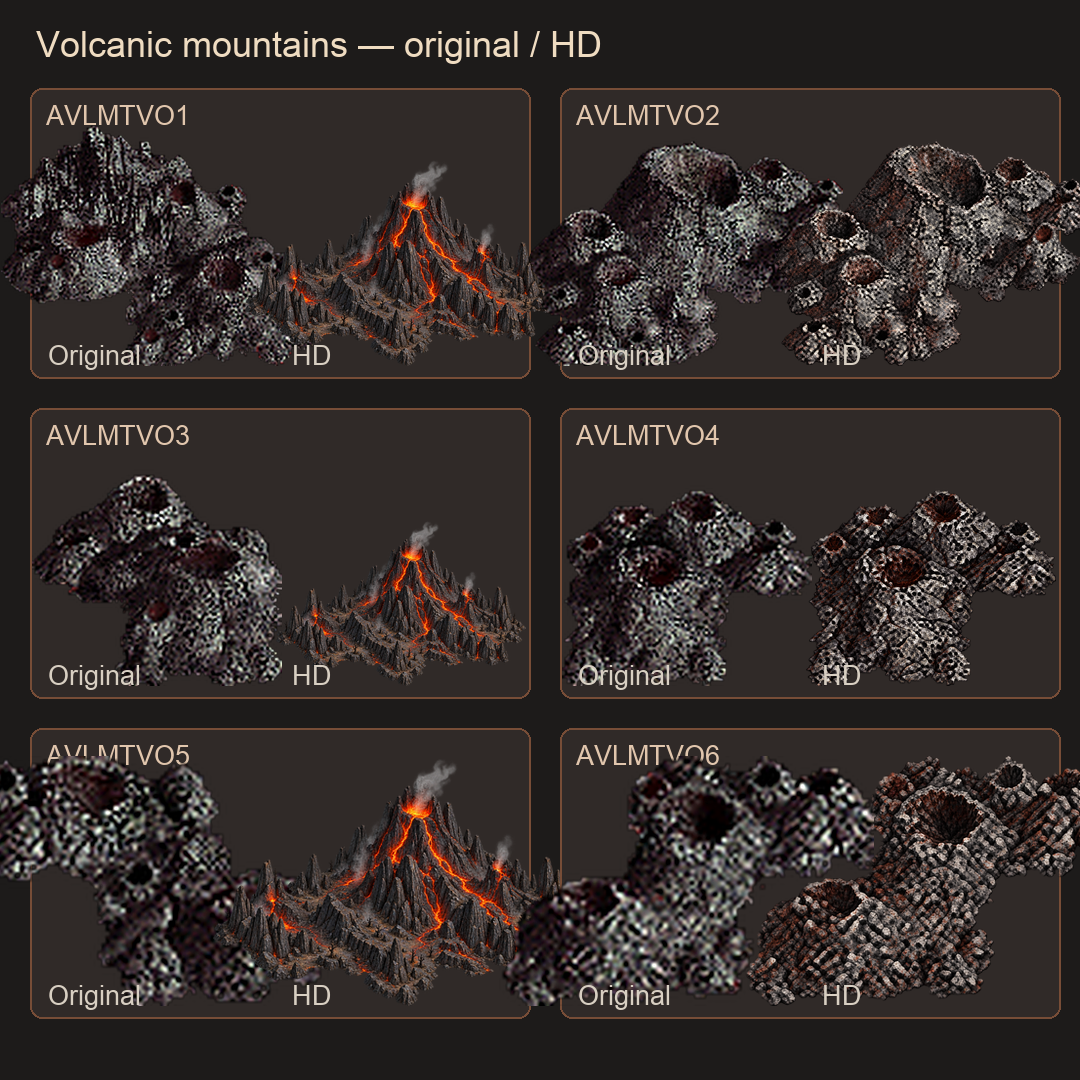
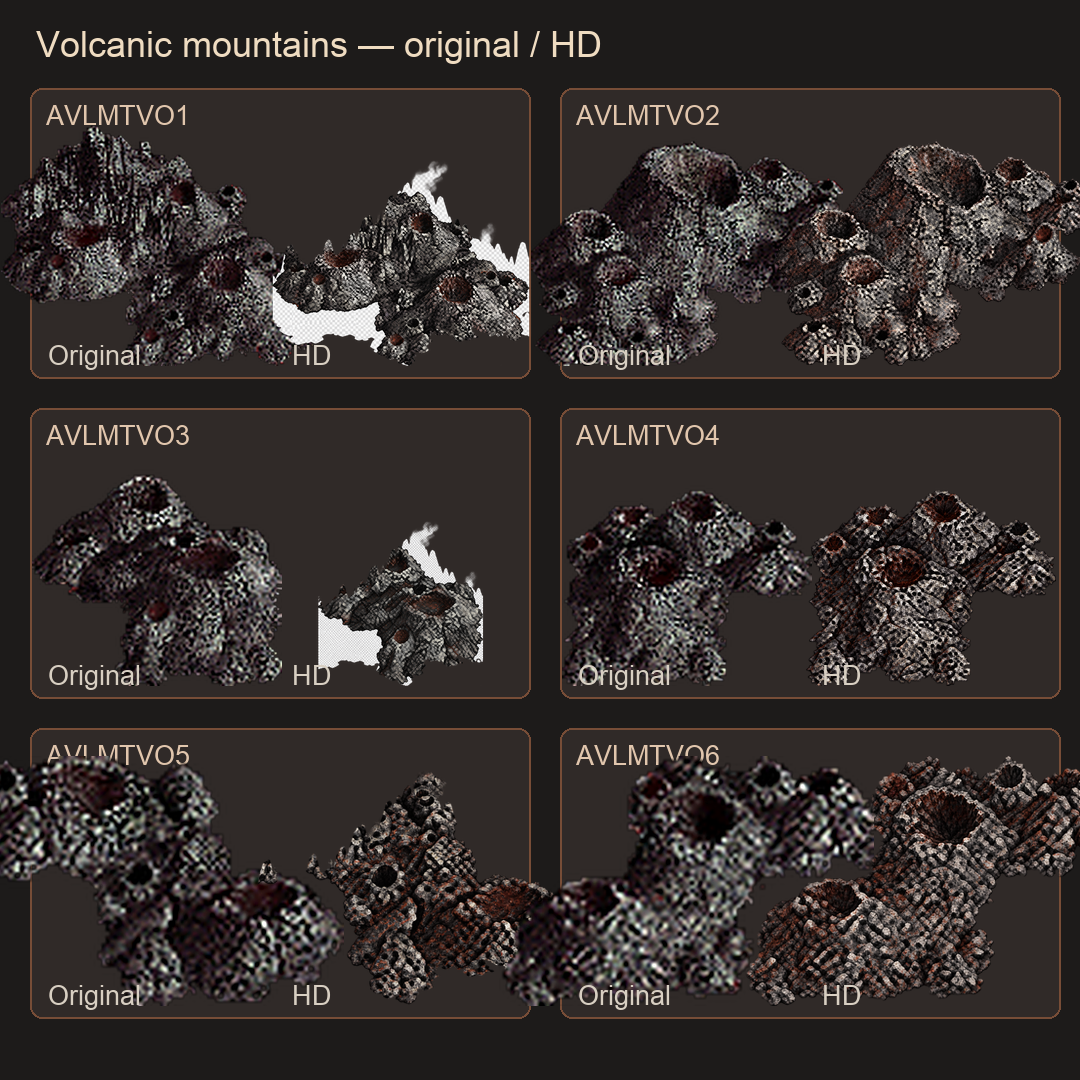
Correct volcanic mountain fidelity

Changed region(s): [[0.1833, 0.7028, 0.5194, 0.9472], [0.2139, 0.1528, 0.5194, 0.3361], [0.275, 0.4889, 0.4889, 0.6417]]

diff --git a/content/posts/h3-adventure-volcanic-mountains-hd.md b/content/posts/h3-adventure-volcanic-mountains-hd.md
@@ -6,7 +6,7 @@ ai: true
 tags: ["vcmi", "ai", "graphics", "astra"]
 ---
 
-All six volcanic-mountain resources, `AVLMTVO1`–`AVLMTVO6`, now have HD body art. The original distinction between eruptive and low cratered formations remains: the latter keeps charred basalt, ash and dark red mineral staining rather than becoming lava rivers or oversized volcanoes.
+All six volcanic-mountain resources, `AVLMTVO1`–`AVLMTVO6`, now have HD body art. All six use the source’s low cratered rock formations, keeping charred basalt, ash and dark red mineral staining rather than becoming lava rivers or oversized volcanoes.
 
 ![Volcanic mountain HD comparison](/images/h3-environment-hd/volcanic-mountain-variants-hd-compare.png)
 

diff --git a/content/posts/h3-adventure-volcanic-mountains-hd.zh.md b/content/posts/h3-adventure-volcanic-mountains-hd.zh.md
@@ -6,7 +6,7 @@ ai: true
 tags: ["vcmi", "ai", "graphics", "astra"]
 ---
 
-火山地图的六种大型山体 `AVLMTVO1`–`AVLMTVO6` 现已完整高清化。喷发型与低矮坑口型仍沿用原作的分型：后者保留焦黑玄武岩、火山灰与暗红矿物痕迹，没有改成不属于原作的熔岩河或巨型火山。
+火山地图的六种大型山体 `AVLMTVO1`–`AVLMTVO6` 现已完整高清化。六种资源均以原作的低矮坑口岩群为准，保留焦黑玄武岩、火山灰与暗红矿物痕迹，没有改成不属于原作的熔岩河或巨型火山。
 
 ![火山山体高清对照](/images/h3-environment-hd/volcanic-mountain-variants-hd-compare.png)
 
